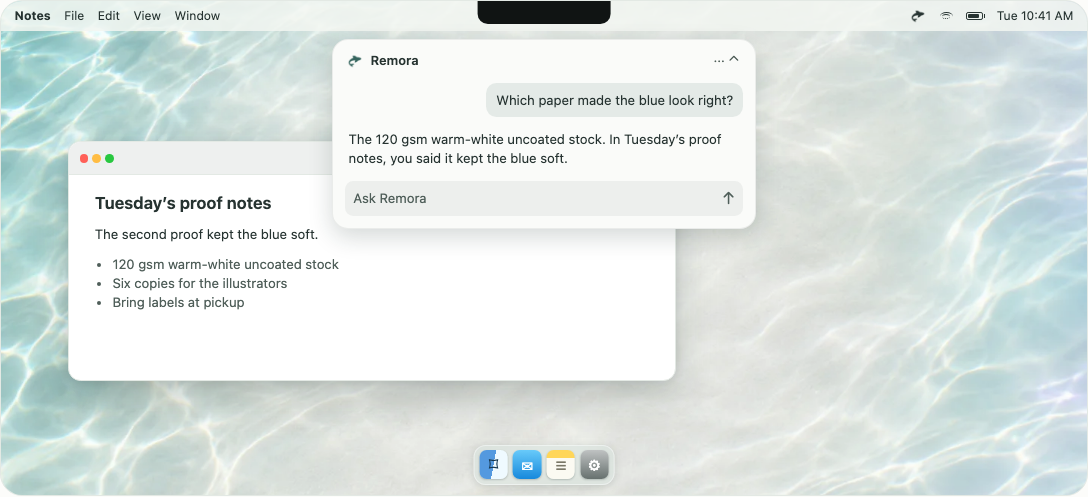
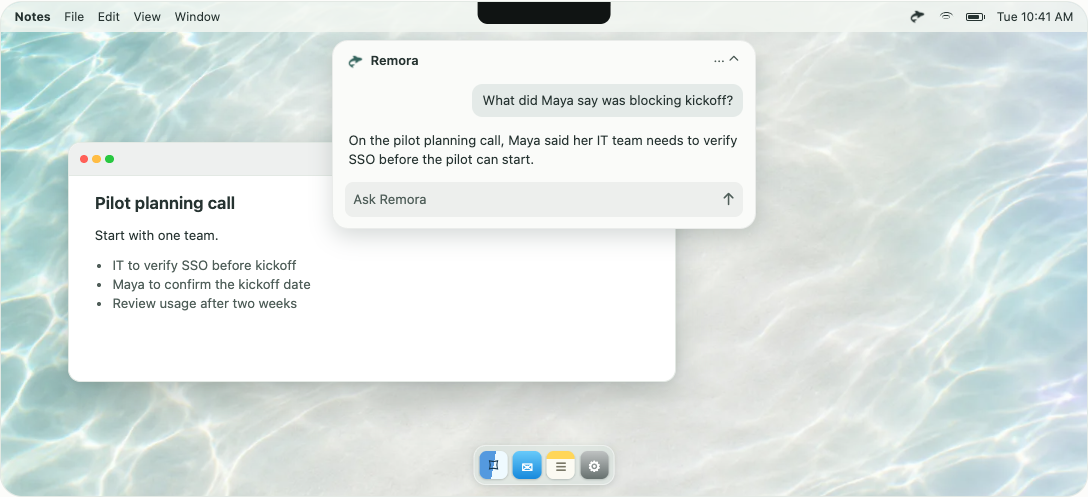
docs: show a customer pilot in Remora demos
Use one B2B SaaS pilot to demonstrate meeting recall, an email rewrite, and dictation. Regenerate the README image from the homepage recall demo.

diff --git a/docs/site/pages/home.html b/docs/site/pages/home.html
@@ -29,15 +29,15 @@
             <div class="demo-window" aria-hidden="true">
               <div class="demo-titlebar">
                 <div class="window-controls"><i></i><i></i><i></i></div>
-                <span>Zine print run</span>
+                <span>Pilot</span>
               </div>
               <div class="demo-document">
-                <p class="demo-note-title">Tuesday’s proof notes</p>
-                <p>The second proof kept the blue soft.</p>
+                <p class="demo-note-title">Pilot planning call</p>
+                <p>Start with one team.</p>
                 <ul>
-                  <li>120 gsm warm-white uncoated stock</li>
-                  <li>Six copies for the illustrators</li>
-                  <li>Bring labels at pickup</li>
+                  <li>IT to verify SSO before kickoff</li>
+                  <li>Maya to confirm the kickoff date</li>
+                  <li>Review usage after two weeks</li>
                 </ul>
               </div>
             </div>
@@ -46,8 +46,8 @@
                 <span class="demo-chat-name"><span class="demo-glyph" aria-hidden="true"></span>Remora</span>
                 <span class="demo-accessories" aria-hidden="true">··· ⌃</span>
               </div>
-              <p class="demo-chat-question">Which paper made the blue look right?</p>
-              <p class="demo-chat-reply">The 120 gsm warm-white uncoated stock. In Tuesday’s proof notes, you said it kept the blue soft.</p>
+              <p class="demo-chat-question">What did Maya say was blocking kickoff?</p>
+              <p class="demo-chat-reply">On the pilot planning call, Maya said her IT team needs to verify SSO before the pilot can start.</p>
               <div class="demo-composer" aria-hidden="true"><span>Ask Remora</span><span class="demo-send">↑</span></div>
             </section>
           </div>
@@ -55,10 +55,10 @@
             <div class="demo-window">
               <div class="demo-titlebar">
                 <div class="window-controls" aria-hidden="true"><i></i><i></i><i></i></div>
-                <span>Zine print run</span>
+                <span>Customer pilot</span>
               </div>
               <div class="demo-document">
-                <p class="demo-note-title">Draft to Jo</p>
+                <p class="demo-note-title">Email draft to Maya</p>
                 <section class="demo-remora demo-editor" aria-label="Remora Edit popover">
                   <div class="demo-toolbar" aria-hidden="true">
                     <span>Insert</span><span class="demo-selected">Edit</span><span>Record</span><span class="demo-dismiss">×</span>
@@ -70,7 +70,7 @@
                   </div>
                   <p class="demo-editor-note">Using ChatGPT plan</p>
                 </section>
-                <p><mark>hey jo could you pull 6 copies for the illustrators? i’ll bring labels when i pick up</mark></p>
+                <p><mark>hey maya sso is ready to test. can your IT team check it by thursday?</mark></p>
               </div>
             </div>
           </div>
@@ -78,22 +78,22 @@
             <div class="demo-window">
               <div class="demo-titlebar">
                 <div class="window-controls" aria-hidden="true"><i></i><i></i><i></i></div>
-                <span>Zine print run</span>
+                <span>Customer pilot</span>
               </div>
               <div class="demo-document">
-                <p class="demo-note-title">Pickup instructions</p>
+                <p class="demo-note-title">Internal rollout plan</p>
                 <section class="demo-remora demo-editor" aria-label="Remora dictation in the Insert popover">
                   <div class="demo-toolbar" aria-hidden="true">
                     <span class="demo-selected">Insert</span><span>Edit</span><span>Record</span><span class="demo-dismiss">×</span>
                   </div>
                   <div class="demo-composer demo-edit-composer">
                     <span class="demo-glyph" aria-hidden="true"></span>
-                    <span>um put the blue copies by the door so people can grab one on their way out</span>
+                    <span>we’ll invite the first team and schedule a check-in two weeks later</span>
                     <span class="demo-selected">Insert at caret</span>
                   </div>
                   <p class="demo-editor-note">Tap right ⌥ to switch modes</p>
                 </section>
-                <p>After the final proof <span class="demo-caret" aria-hidden="true"></span></p>
+                <p>After IT signs off, <span class="demo-caret" aria-hidden="true"></span></p>
               </div>
             </div>
           </div>

diff --git a/README.md b/README.md
@@ -2,7 +2,7 @@
 
 Remora is a native macOS assistant that remembers what you see on screen and helps you write.
 
-![Remora chat beneath the MacBook notch, answering a question over a Notes window](docs/images/remora-desktop.png)
+![Remora chat beneath the MacBook notch, recalling an SSO requirement from a customer pilot call](docs/images/remora-desktop.png)
 
 It reads the text of the window you are working in through the Accessibility API, keeps it in a local
 database on your Mac, and has a language model organize it in the background into summaries, a
